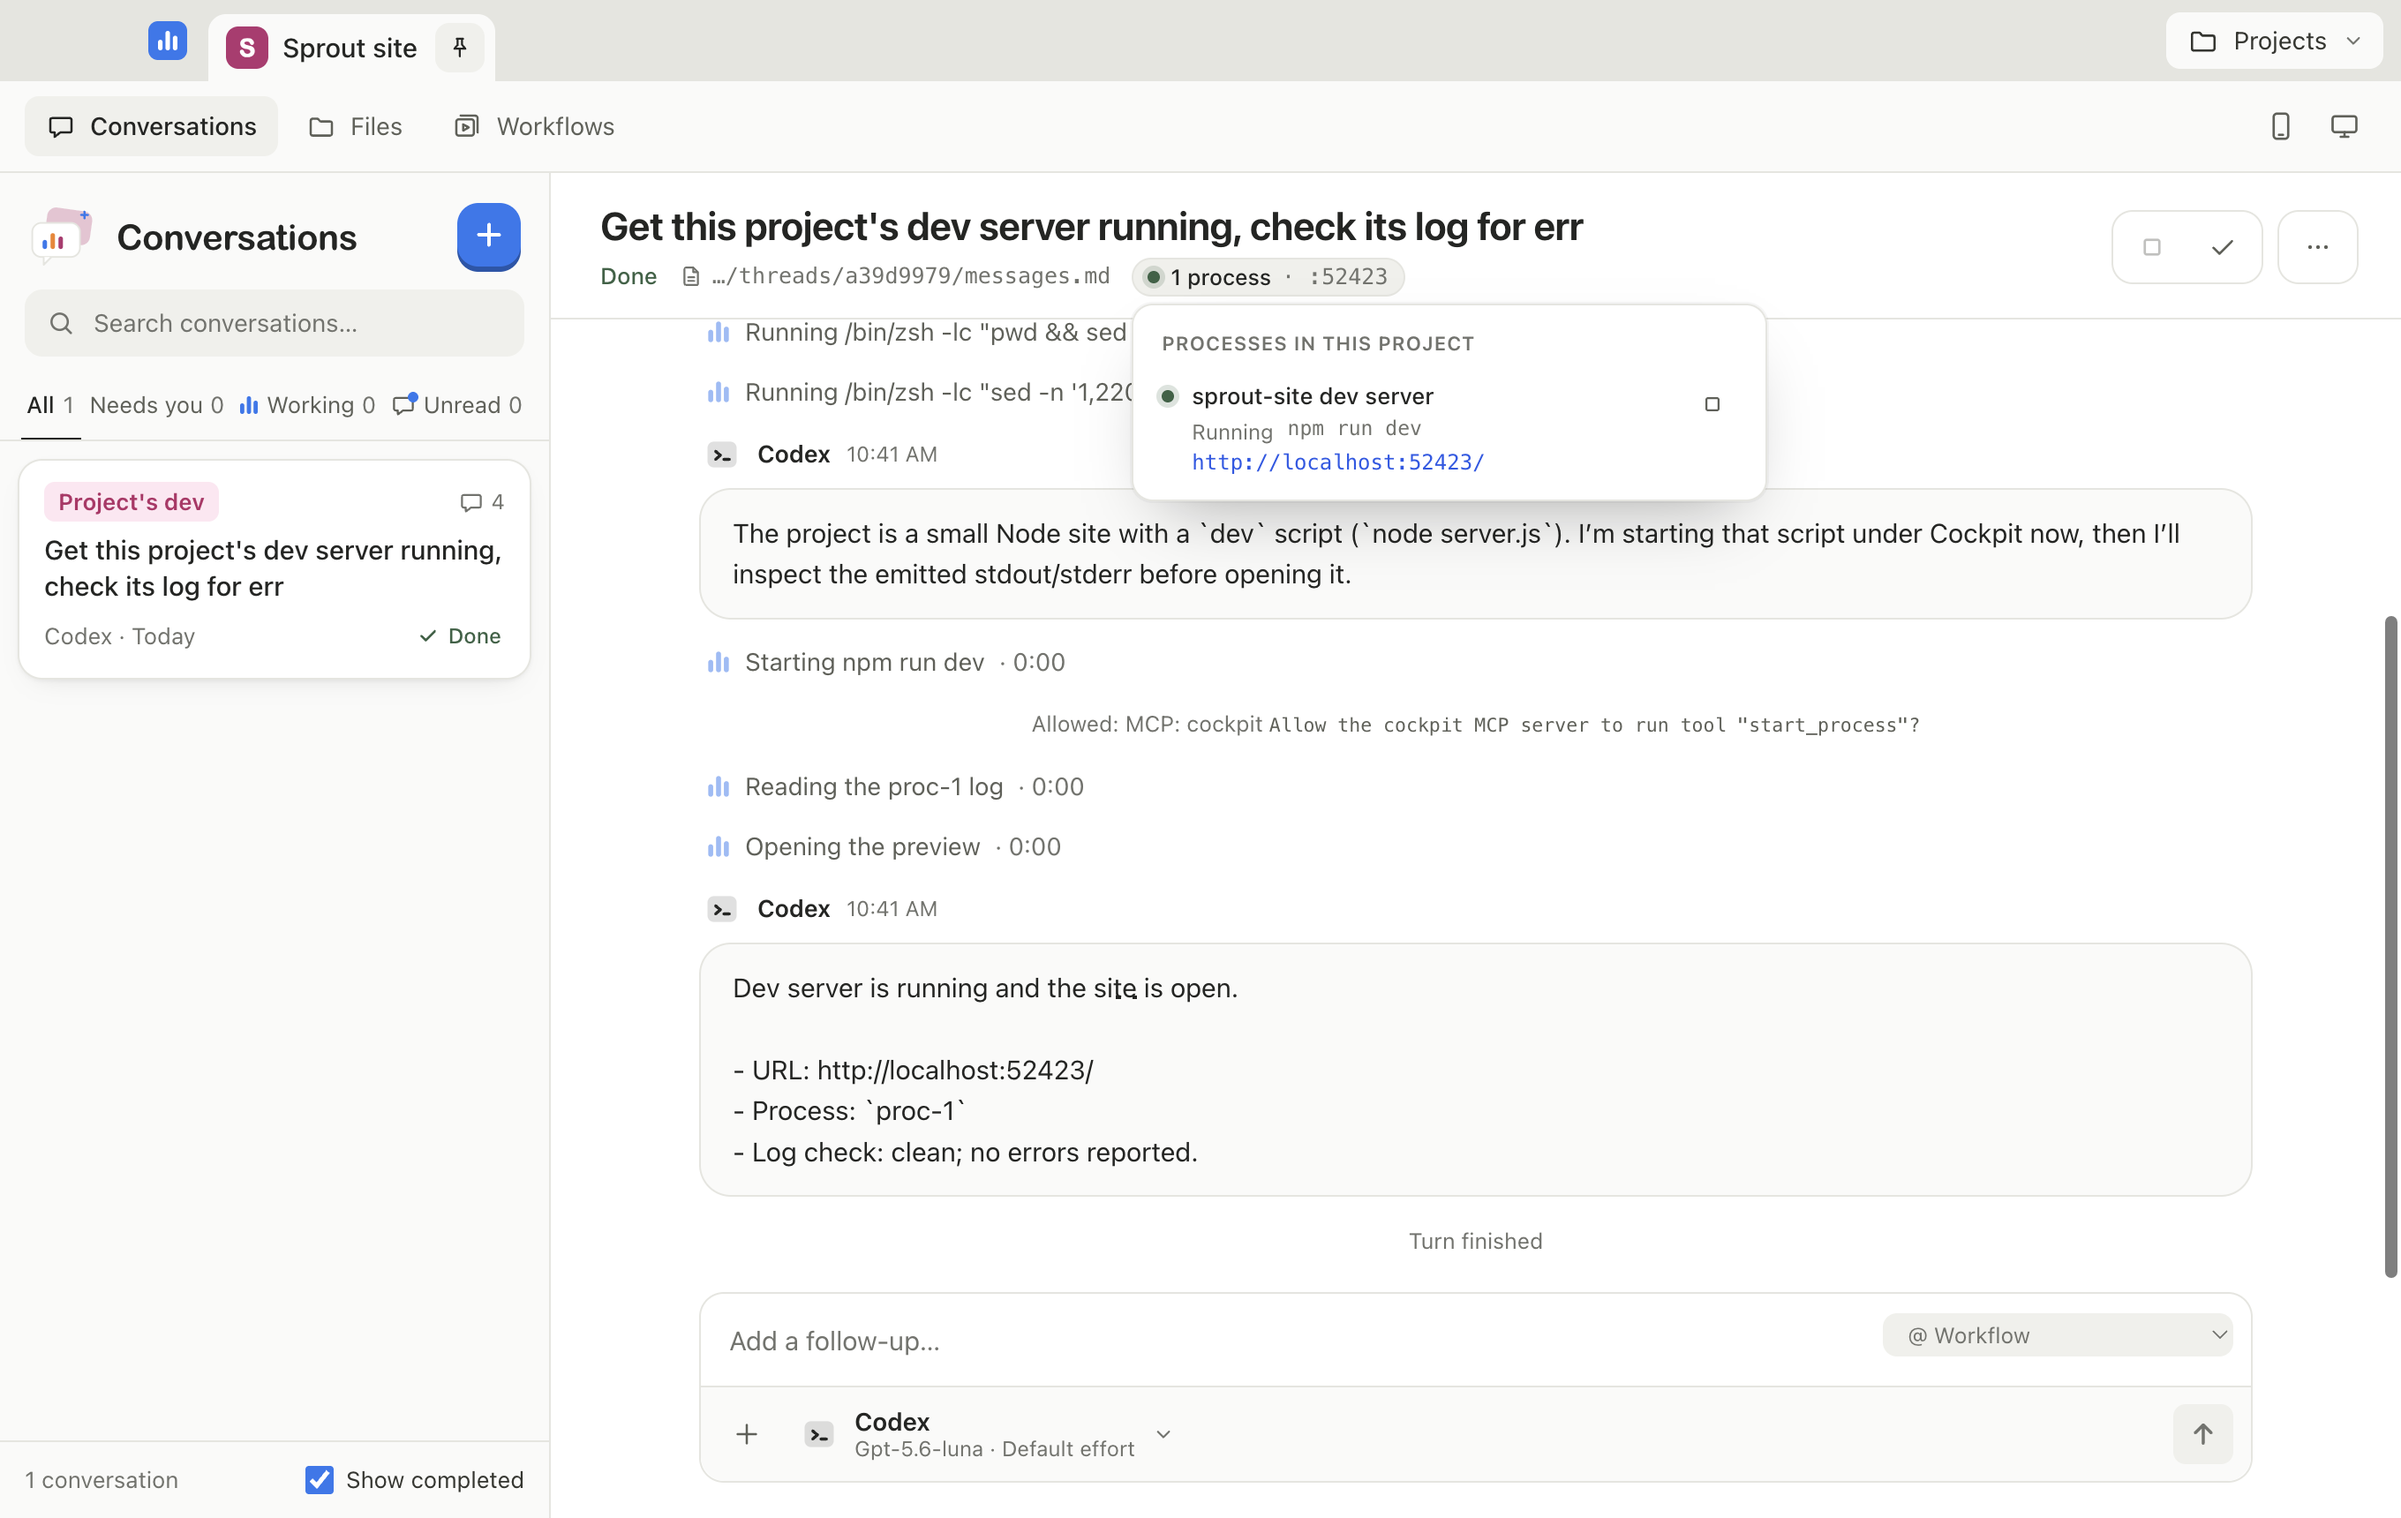
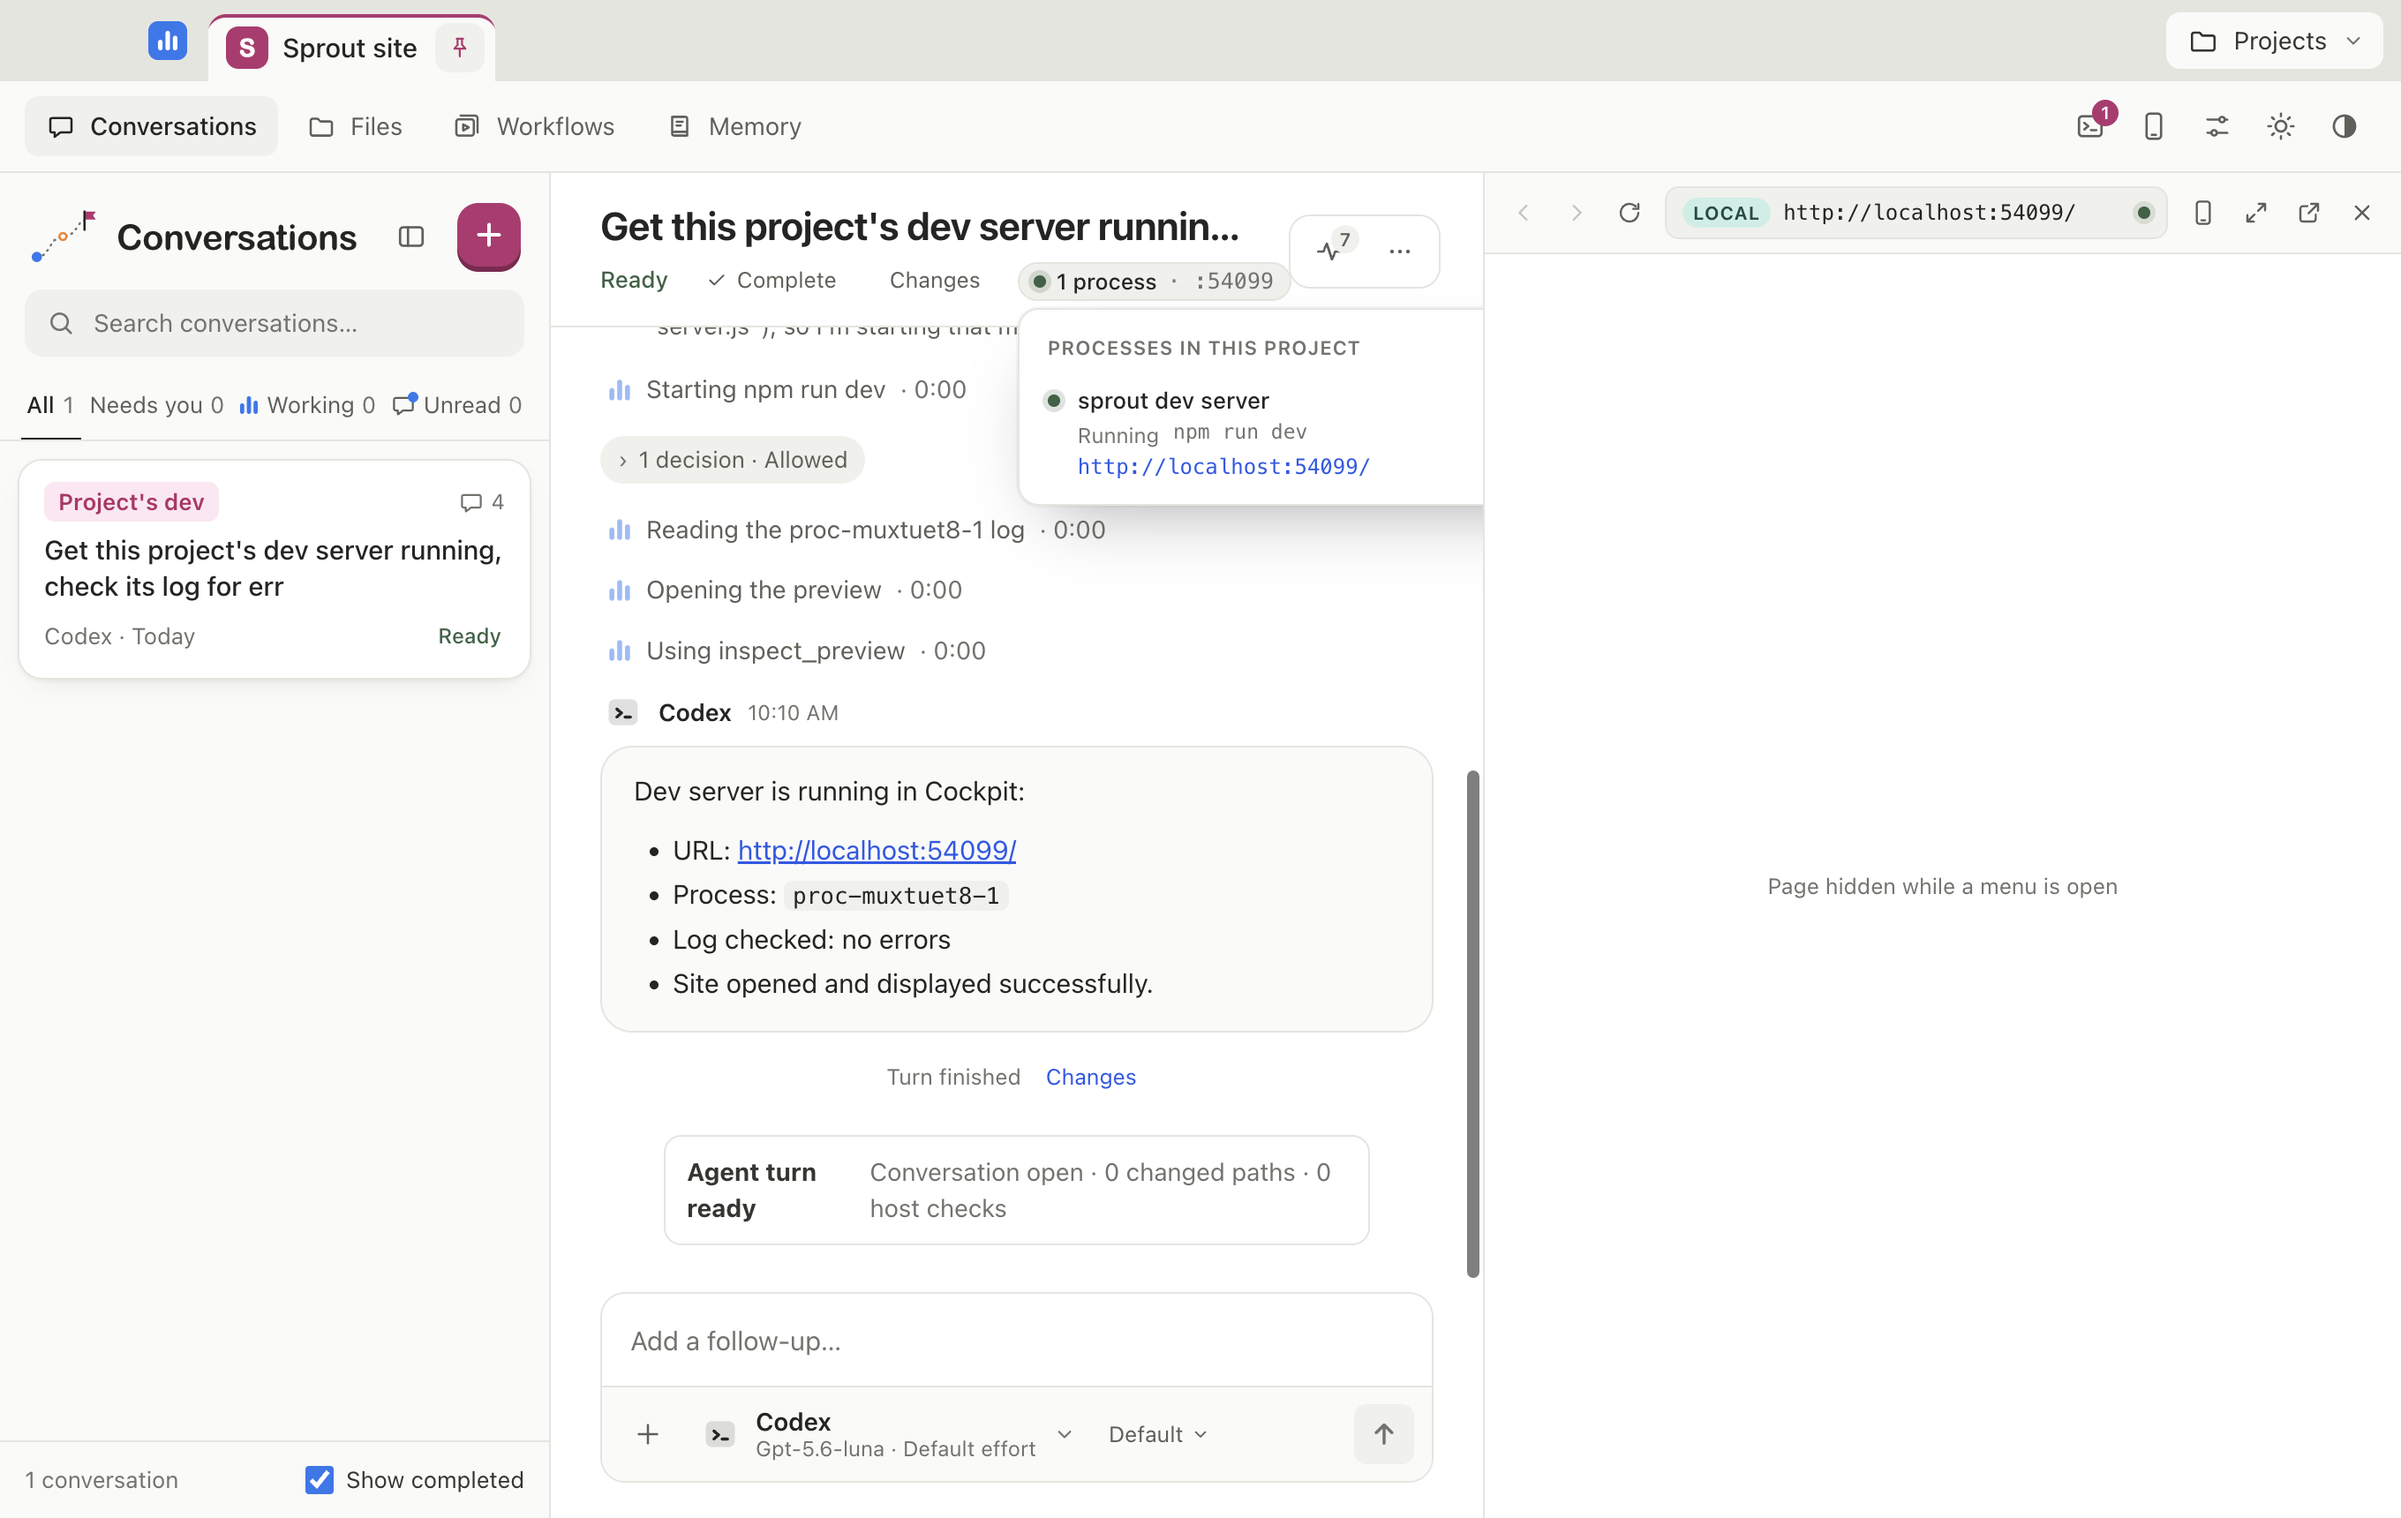
test: proof:mcp checks one ask per Cockpit action, reads the wave 9 preview
Handoff item 3: run with --codex against Codex 0.160.1 to see whether
Codex asks twice for Cockpit's tools, as Claude did before PR #23. It does
not: Cockpit starts Codex with tools.<tool>.approval_mode="approve" for
every Cockpit tool, so the CLI never prompts and Cockpit's card is the only
ask (two start_process calls, two cards). The proof now asserts that for
either agent.

The preview check read the pre-wave-9 pane; it now reads the in-app
browser page's address from the main process, like proof:recovery.
Also puts STALE_LABELLED's doc comment back on it (PR #23 split them).

diff --git a/scripts/proof-4.ts b/scripts/proof-4.ts
@@ -125,11 +125,18 @@ const processes = await getJson<ProcessInfo[]>(page, '/api/processes')
 const dev = processes.find((p) => p.projectPath === project && p.status === 'running' && p.url)
 check('dev server is running with its URL detected', Boolean(dev), JSON.stringify(processes.map((p) => [p.name, p.status, p.url])))
 const devUrl = dev?.url ?? ''
-// Since phase 7, open_preview shows the app in Cockpit's own preview pane (Browser ↗ still opens
-// the external browser); either counts, at the dev server's port.
+// open_preview shows the app in the conversation's in-app browser page (wave 9, a host-drawn view,
+// so its address is read from the main process); Browser ↗ still opens the external browser.
+// Either counts, at the dev server's port.
 const portOf = (url: string): string => { try { return new URL(url).port } catch { return '' } }
-const paneUrl = await page.locator('.preview-pane .preview-address code').textContent({ timeout: 10_000 }).catch(() => '') ?? ''
-check('the preview opened at that URL', devUrl !== '' && [paneUrl, ...(await openedUrls())].some((url) => portOf(url) === portOf(devUrl)), `pane ${paneUrl}; external ${(await openedUrls()).join(', ')}; dev ${devUrl}`)
+const browserUrls = (): Promise<string[]> => app.evaluate(({ BrowserWindow }) => BrowserWindow.getAllWindows().flatMap((w) => w.contentView.children)
+  .map((v) => (v as unknown as { webContents?: Electron.WebContents }).webContents)
+  .flatMap((c) => (c && !c.isDestroyed() && /^http:\/\/(127\.0\.0\.1|localhost):\d+/.test(c.getURL()) ? [c.getURL()] : [])))
+const opened = await waitUntil(page, 'the preview page', async () => {
+  const urls = [...await browserUrls(), ...await openedUrls()]
+  return urls.some((url) => portOf(url) === portOf(devUrl)) ? urls : undefined
+}, 15_000).catch(() => [] as string[])
+check('the preview opened at that URL', devUrl !== '' && opened.length > 0, `opened ${opened.join(', ')}; dev ${devUrl}`)
 const served = devUrl ? await fetch(devUrl).then((r) => r.text()).catch(() => '') : ''
 check('the site is actually served', served.includes('Sprout is growing'))
 const ppid = dev?.pid ? execFileSync('ps', ['-o', 'ppid=', '-p', String(dev.pid)], { encoding: 'utf8' }).trim() : ''
@@ -161,7 +168,13 @@ check('Stop in the list stopped the whole dev server', refused && groupMembers(f
 // Restart it, then quit the app with it running.
 await messageBox(page).fill('Start the dev server again, please.')
 await messageBox(page).press('Enter')
-await approveUntilDone(page, threadId)
+const askedAgain = await approveUntilDone(page, threadId)
+// One ask per Cockpit action (PR #23 for Claude; Codex gets approval_mode="approve" per Cockpit tool):
+// every start_process shows Cockpit's own card once, never also the CLI's generic MCP prompt.
+const { events: all } = await getJson<{ events: StoredEvent[] }>(page, `/api/threads/${threadId}/events`)
+const starts = all.filter(({ event }) => event.kind === 'tool_use' && event.name === 'mcp__cockpit__start_process').length
+const cards = [...asked, ...askedAgain].filter((tool) => tool === 'Start a process' || tool.startsWith('MCP: cockpit'))
+check('each start_process asked exactly once', starts >= 2 && cards.length === starts && !cards.some((tool) => tool.startsWith('MCP:')), `${starts} starts; asked ${cards.join(' | ')}`)
 const again = await waitUntil(page, 'the restarted server', async () =>
   (await getJson<ProcessInfo[]>(page, '/api/processes')).find((p) => p.projectPath === project && p.status === 'running' && p.url),
 )

diff --git a/server/threads/manager.ts b/server/threads/manager.ts
@@ -214,13 +214,13 @@ export class OperationConflictError extends Error {}
 /** The handoff the user read is no longer what a switch would send (D13). */
 export class HandoffChangedError extends Error {}
 
-/** A late event worth a label: what a replaced process tried to say, never deltas, usage or its own exit. */
 // Cockpit tools whose every call Cockpit approves itself, on the server (host-actions.ts), because
 // the CLI's own gate can be bypassed. The CLI's prompt for the same call would ask twice: it is
 // allowed here and only Cockpit's card is shown. save_workflow is not listed: Cockpit asks for it
 // only when the project has not allowed agent workflows, so the CLI's prompt may be the only one.
 const HOST_APPROVED_TOOLS = new Set(['start_process', 'stop_process', 'remember', 'start_conversation', 'send_to_conversation', 'stop_conversation']
   .map((tool) => `mcp__cockpit__${tool}`))
+/** A late event worth a label: what a replaced process tried to say, never deltas, usage or its own exit. */
 const STALE_LABELLED = new Set<NormalizedEvent['kind']>(['session', 'result', 'assistant_text', 'tool_use', 'approval_request', 'question', 'error', 'subagent'])
 
 export interface ThreadManager {
